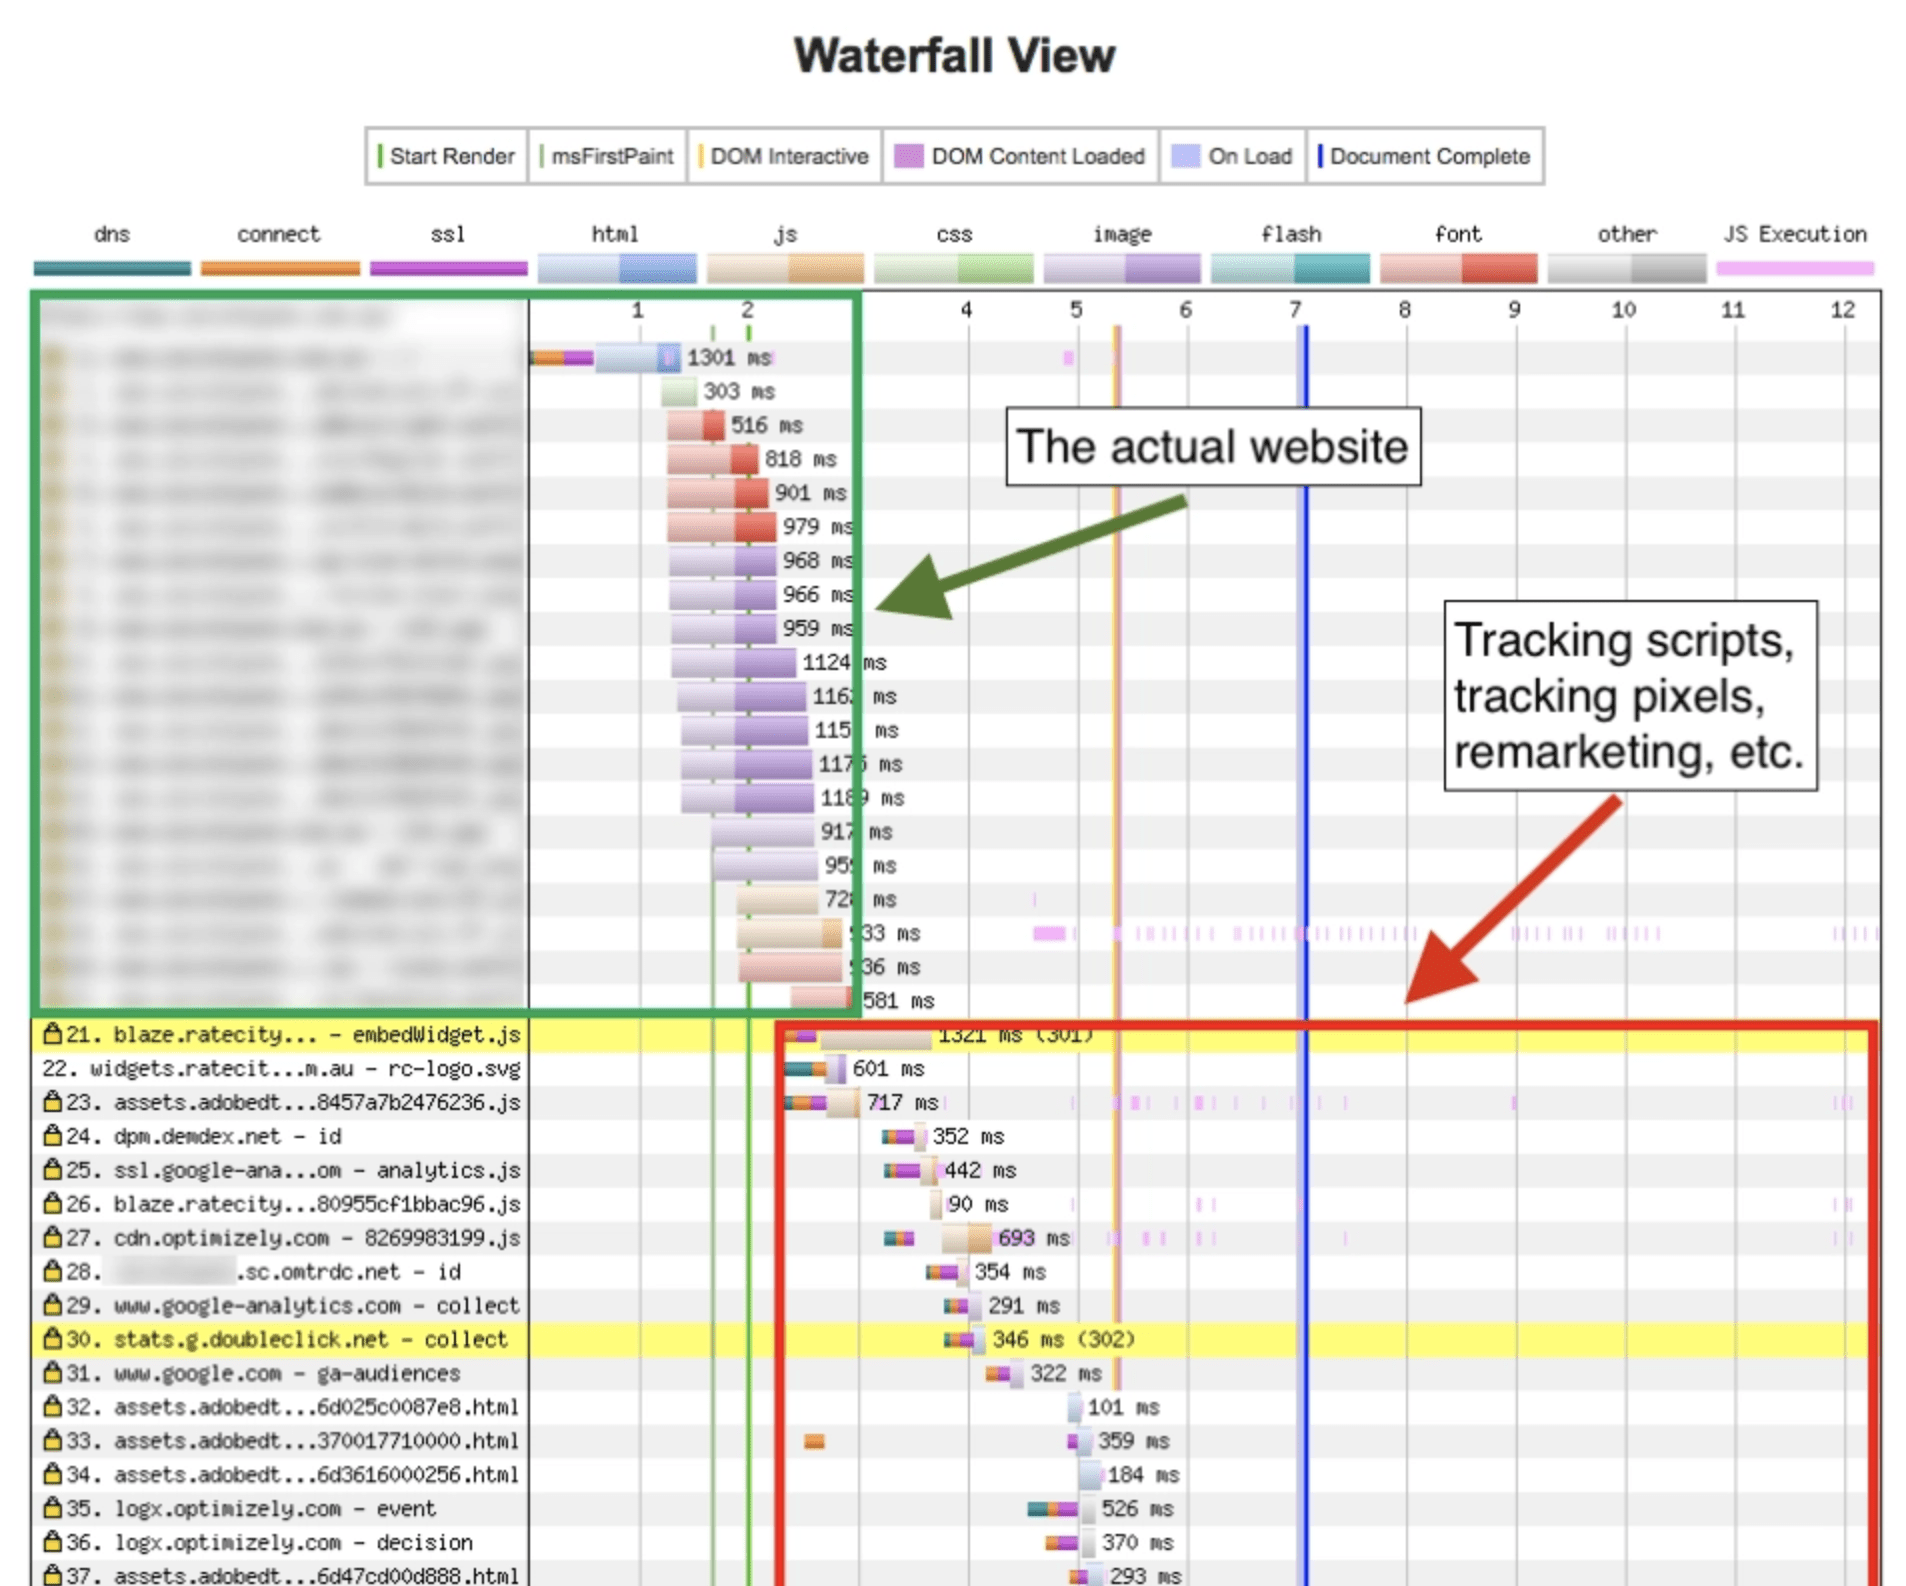
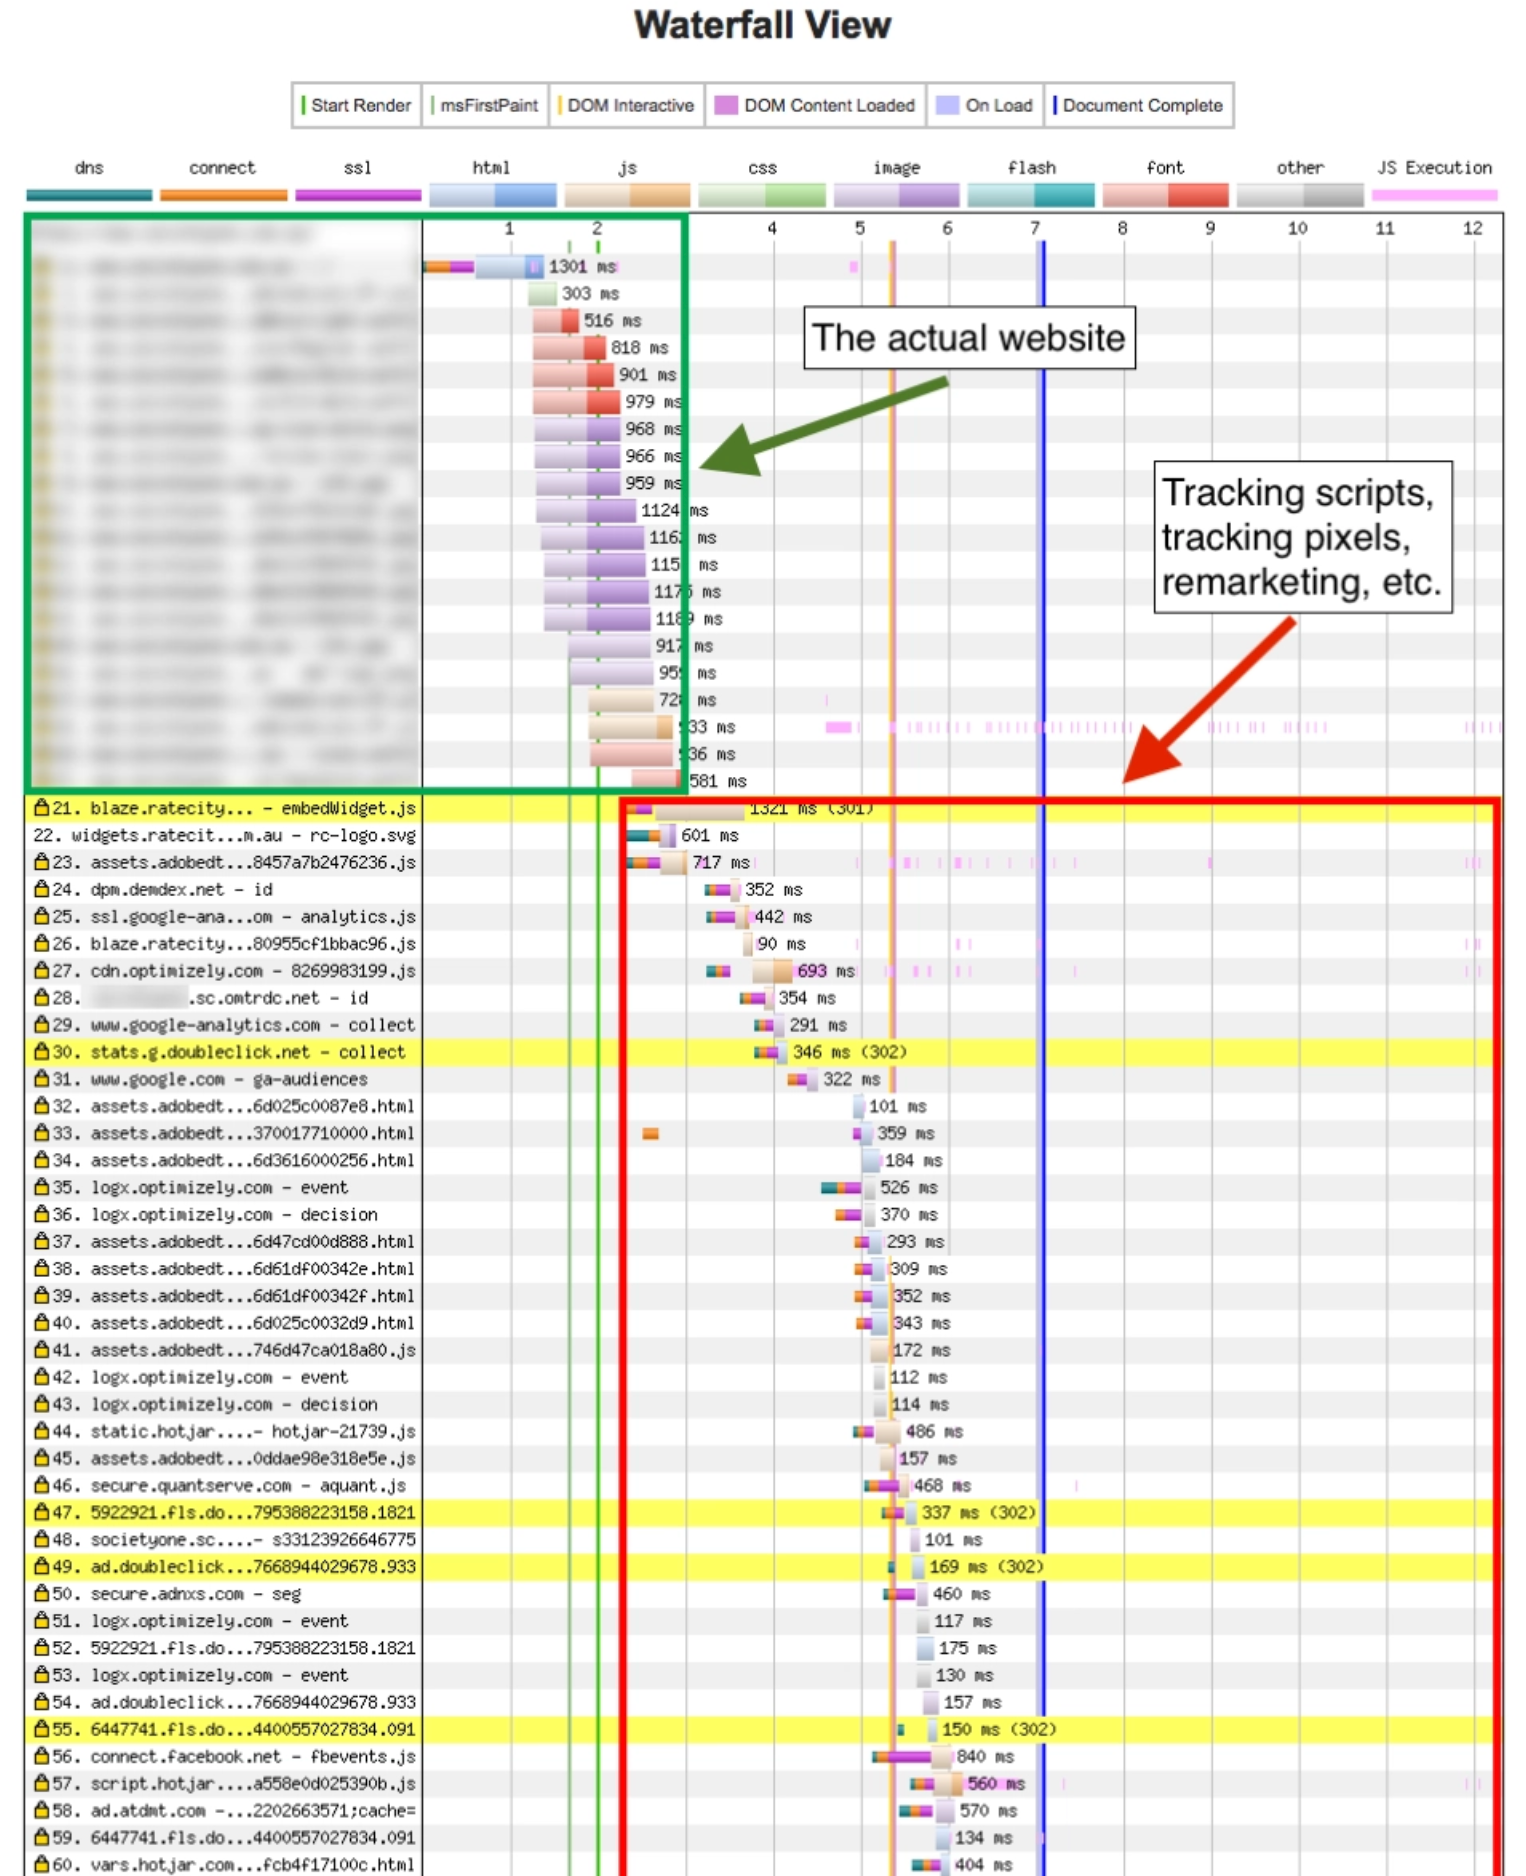
Minor revisions to loading third-party JS article.

diff --git a/src/content/en/fundamentals/performance/optimizing-content-efficiency/loading-third-party-javascript/index.md b/src/content/en/fundamentals/performance/optimizing-content-efficiency/loading-third-party-javascript/index.md
@@ -2,7 +2,7 @@ project_path: /web/fundamentals/_project.yaml
 book_path: /web/fundamentals/_book.yaml
 description: Third-party scripts provide a wide range of useful functionality, making the web more dynamic. Learn how to optimize the loading of third-party scripts to reduce their impact on performance.
 
-{# wf_updated_on: 2018-03-01 #}
+{# wf_updated_on: 2018-03-05 #}
 {# wf_published_on: 2018-02-28 #}
 {# wf_blink_components: Blink>JavaScript #}
 
@@ -137,11 +137,13 @@ Insights](/speed/pagespeed/insights/) and
 information that can tell you *how many* third party scripts are loaded by your
 site and which take the most time to execute. 
 
+WebPageTest’s waterfall view can highlight the
+impact of heavy third-party script use. Below is an example of the requests
+required to load the main content for a site vs. the tracking and marketing
+scripts (credit: [Tags Gone Wild](https://nystudio107.com/blog/tags-gone-wild)).
+
 <img src="images/image_2.png" alt="waterfall view from webpagetest showing an
 actual website vs the amount of time spent loading tracking scripts"/>
-
-[WebPageTest](https://www.webpagetest.org/)’s waterfall view can highlight the
-impact of heavy third-party script use.
 
 WebPageTest’s [domain
 breakdown](https://www.google.com/url?q=https://www.webpagetest.org/result/180222_J4_8fee6855d6f45719e4f37d8d89ecbc20/1/domains/&sa=D&ust=1519325015196000&usg=AFQjCNGrRivilJS9yqqpombsUMQZQJx2nw)
@@ -183,12 +185,20 @@ panel"/>
 
 ### Lighthouse Boot-up Time Audit
 
-The [Lighthouse](/web/tools/lighthouse/) *JavaScript boot-up time* audit
+The Lighthouse [JavaScript boot-up time audit](/web/tools/lighthouse/audits/bootup)
 highlights scripts that have a costly script parse, compile or evaluation time.
 This can be useful for discovering CPU-intensive third party scripts.
 
 <img src="images/image_6.png" alt="Lighthouse showing support for script
 evaluating and parsing"/>
+
+### Lighthouse Network Payloads Audit
+
+The Lighthouse [Network Payloads audit](/web/tools/lighthouse/audits/network-payloads) identifies 
+network requests (including those from third-parties) that may slow down page load time. Avoiding these requests or highlighting their cost to ad-networks can save users money they would have spent on cellular data.
+
+<img src="images/image_18.png" alt="Lighthouse showing support for large
+network payloads"/>
 
 ### Chrome DevTools Network Request Blocking
 
@@ -761,12 +771,13 @@ Scripts](https://css-tricks.com/potential-dangers-of-third-party-javascript/)
 [How 3rd Party Scripts can be performant citizens on the
 web](https://www.twnsnd.com/posts/performant_third_party_scripts.html)
 
+[Why Fast Matters - CSS Wizardry](https://speakerdeck.com/csswizardry/why-fast-matters)
+
 [The JavaScript Supply Chain Paradox: SRI, CSP and Trust in Third Party
 Libraries](https://www.troyhunt.com/the-javascript-supply-chain-paradox-sri-csp-and-trust-in-third-party-libraries/)
 
 [Third-party CSS isn't
 safe](https://jakearchibald.com/2018/third-party-css-is-not-safe/)
 
-*With thanks to Kenji Baheux, Jeremy Wagner, Philip Walton, Jeff Posnick and
-Cheney Tsai for their reviews.*
+*With thanks to Kenji Baheux, Jeremy Wagner, Pat Meenan, Philip Walton, Jeff Posnick and Cheney Tsai for their reviews.*
 
